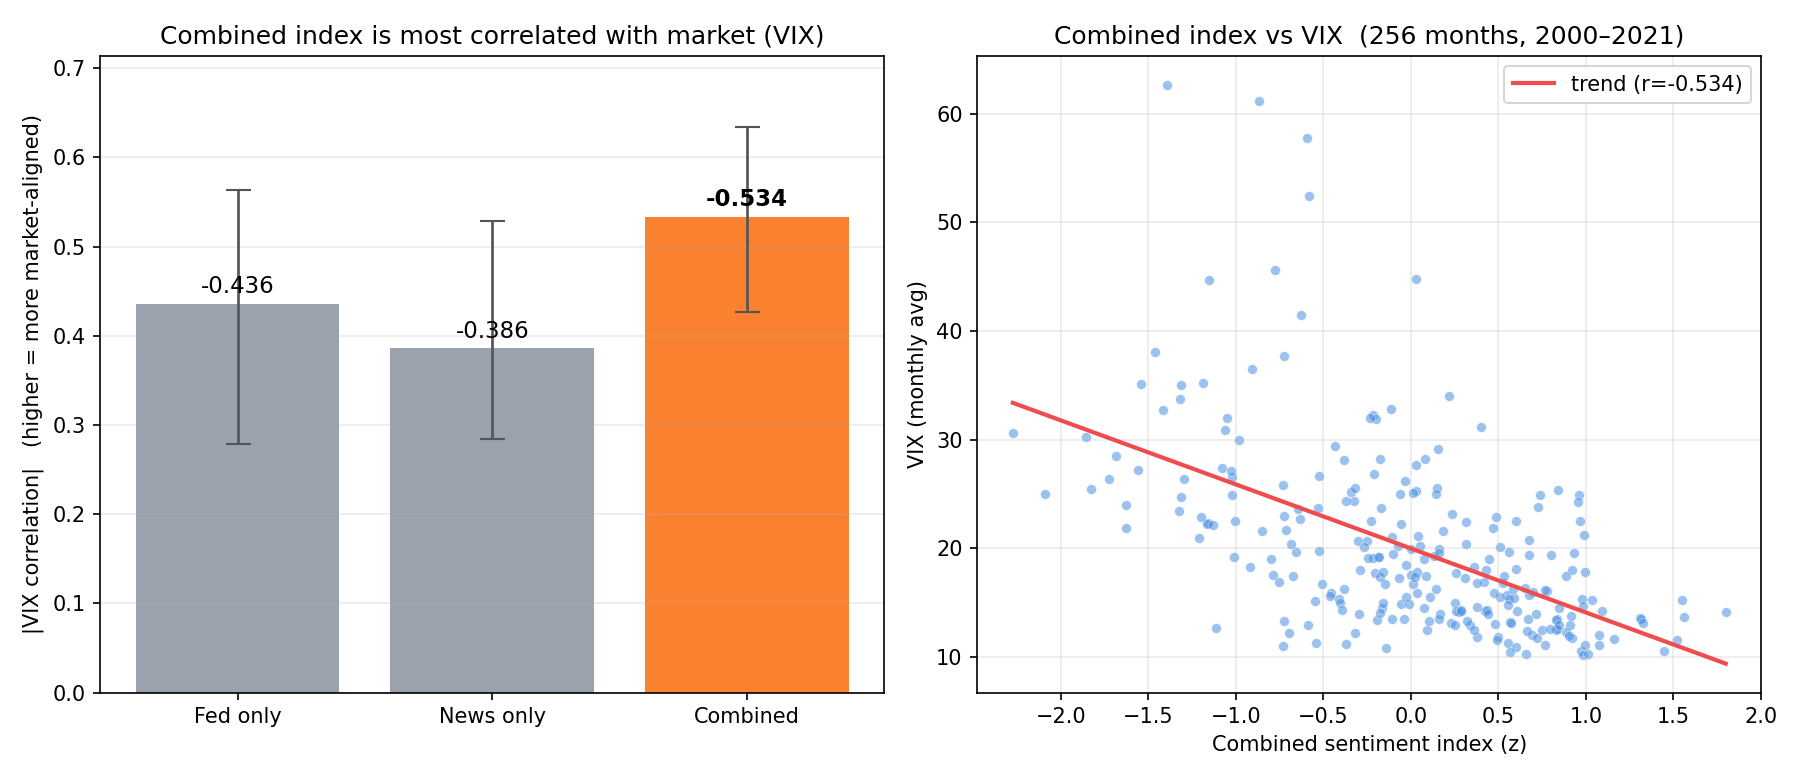
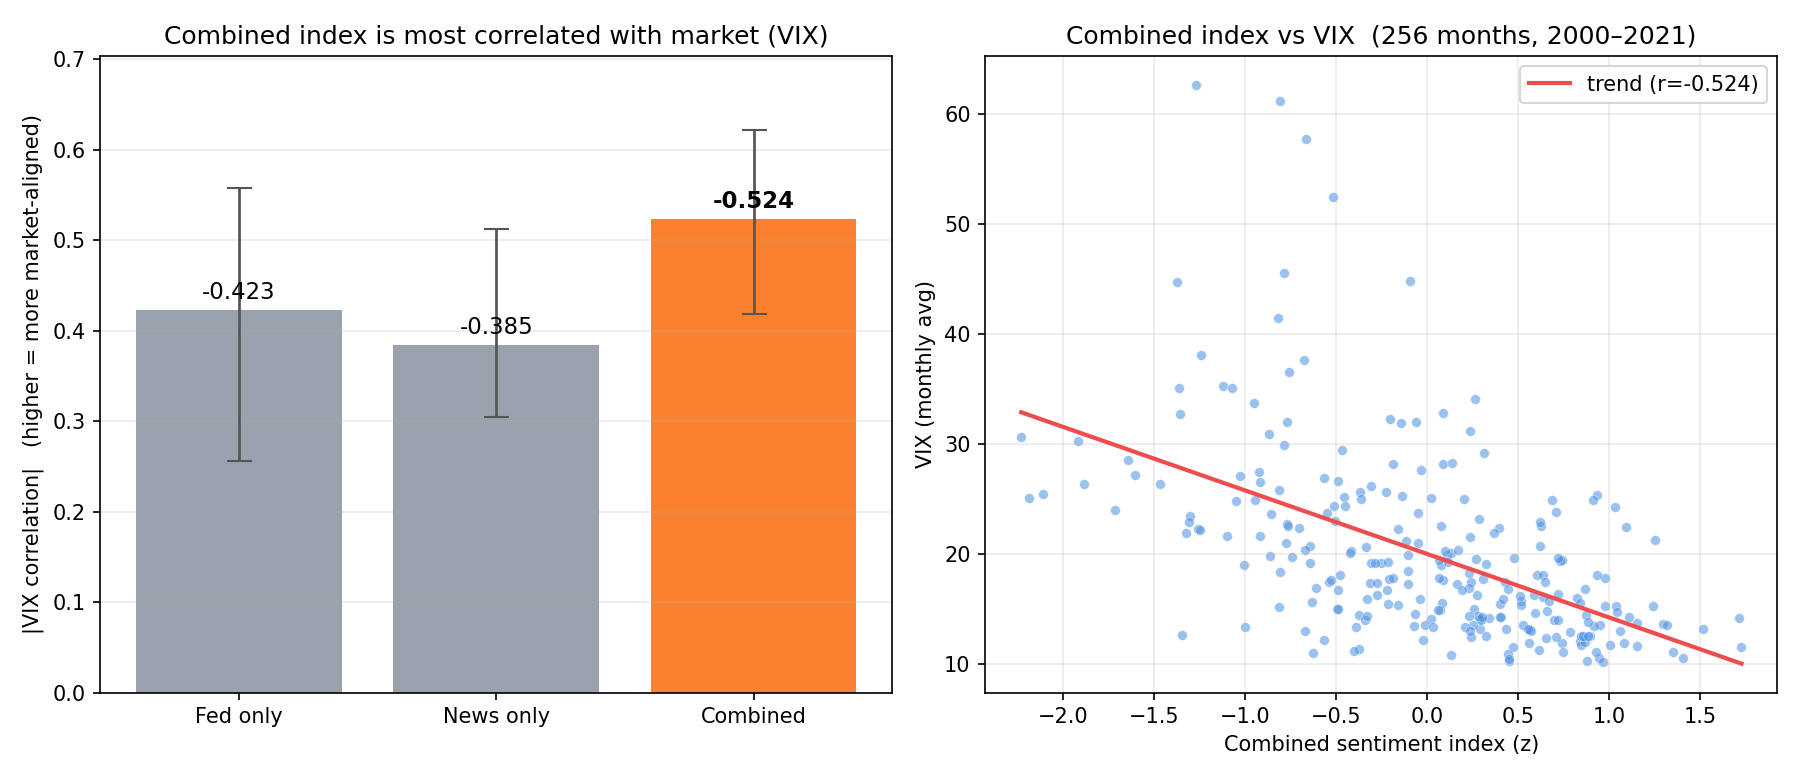
docs(validation): VIX 상관 인용을 T=1 수치로 일괄 정정 (-0.534 → -0.524)
8dc5879 에서 z-파라미터를 T=1 로 재생성하면서 검증 수치도 함께 바뀌었는데,
문서·코드 12곳에 T=3.1 시절 값이 남아 있었다. 하나만 고치면 인접 수치와
어긋나므로 §3·§3b 전체를 재계산해 함께 맞춘다.

                     T=3.1        T=1
  Fed 단독           -0.436   →  -0.423
  News 단독          -0.386   →  -0.385
  통합 50:50         -0.534   →  -0.524
  통합 Fed 70%       -0.519   →  -0.506
  통합 News 70%      -0.494   →  -0.488
  95% CI       [-0.634,-0.426] → [-0.621,-0.418]
  홀드아웃 2012/14/16  -0.479/-0.509/-0.528 → -0.499/-0.520/-0.538
  LOMO 범위    [-0.543,-0.526] → [-0.533,-0.515]
  축 표준편차        Fed .165/News .065 → Fed .275/News .092
결론은 불변이다 — 세 값 모두 0.013 이내로 움직였고 순서·부호가 그대로다.
정정한 곳에는 이전 값이 T=3.1 기준이었다는 주석을 함께 남겼다.

analysis/validation_series.json 재생성 — 사이트의 감성↔시장 겹쳐그리기 원본이다.
r 뿐 아니라 **256개월 전 구간의 값이 전부** T=3.1 시절 것이었다(2000-02 -0.644 →
-0.861 등). build_validation_series.py 로 다시 만들었다.

docs/figures/comparison/{index_vs_vix_comparison,robustness_summary}.png 재생성 —
그림 제목에 -0.534 가 하드코딩돼 있었다.

analysis/validate_weights.repro_check 의 기대값도 갱신했다. 허용오차 0.02 라
갱신 전에도 통과했지만, 기대값이 옛 엔진 기준이면 재현 확인의 의미가 없다.
갱신 후 fed/news/combined 세 값 모두 실측과 정확히 일치한다.

docs/superpowers/specs/2026-08-09-*.md 는 날짜가 박힌 설계 시점 기록이라
본문을 고치지 않고 머리에 주의 문구만 달았다. 그때 참조한 값이 무엇이었는지가
문서의 일부이므로 소급 수정하면 기록이 아니게 된다.

별건: export_dashboard 의 headline 척도 주의 주석을 현재 상태로 갱신했다
  (T=1 재생성으로 상당히 정상화됐으나 월별→일별 불일치는 남는다는 내용).

검증: 테스트 149개 통과. repro_check 3항목 일치. validate_robustness 재실행값과
      문서 수치 대조 완료.

diff --git a/analysis/export_dashboard.py b/analysis/export_dashboard.py
@@ -4,7 +4,7 @@ React/Lovable 등 웹 프론트는 파이썬을 못 돌리므로, DB·CSV의 분
 정적 JSON으로 변환한다. 프론트는 이 파일들만 fetch해서 렌더(계산 없음 — 환각 차단).
 
 산출 (기본 outputs/dashboard/):
-  meta.json           생성시각·기간·건수 + 검증 수치(-0.534, 홀드아웃, CI, LOMO, 괴리 2.4x, presser 87%)
+  meta.json           생성시각·기간·건수 + 검증 수치(-0.524, 홀드아웃, CI, LOMO, 괴리 2.4x, presser 87%)
   meetings.json       회의별 Fed 톤 (conf_weighted, confidence)
   alerts.json         회의별 신호 (등급·발동·톤·시장반응) — 검증된 signals 엔진 재사용
   news_daily.json     일별 News 지수 (+ 부트스트랩 CI, 기사수)
@@ -79,9 +79,14 @@ def export_daily_headline():
     읽으면서 이름만 '통합'이라 붙이고 있었다(2026-08 발견).
 
     ★척도 주의: headline 은 각 축을 z-표준화해 합친 **상대값**이라 0이 과거 평균이고,
-    뉴스 원값처럼 -1~+1 범위가 아니다. 게다가 현재 z 파라미터(headline_norm.json)가
-    월별 집계에서 나온 값이라 일별에 쓰면 크기가 약 4배 부풀려진다 — 부호와 상대 순서는
-    맞지만 절대 크기는 아직 신뢰할 수 없다. 정상 수집이 쌓인 뒤 일별 분포로 재추정할 것.
+    뉴스 원값처럼 -1~+1 범위가 아니다. 2026-09 에 z 파라미터를 T=1 기준으로
+    재생성해(T=3.1 시절 값이 남아 있었다) 크기가 상당히 정상화됐지만, 아직
+    **월별** 분포에서 구한 값을 일별에 쓰고 있어 여전히 부풀려진다.
+    모집단·집계 단위까지 맞추는 안은 검토 중이다 — docs/headline_norm_issue.md.
+
+    ★news_z: 결합에 실제로 들어간 뉴스 z 값. fed 는 이미 z 척도다.
+    둘을 함께 내보내야 화면에서 index = 0.5·fed + 0.5·news_z 가 검산된다
+    (원값 news 만 보여주다 "계산이 안 맞는다"는 지적을 받았다, 2026-09-05).
     """
     return [{"date": r["date"], "index": _f(r["headline"]),
              "fed": _f(r["fed_carry"]), "news": _f(r["news"]),
@@ -248,7 +253,7 @@ def main():
     outdir.mkdir(parents=True, exist_ok=True)
     con = sqlite3.connect(DB)
 
-    vs = ROOT / "analysis" / "validation_series.json"    # 감성↔시장 월별(-0.534 원본, 커밋본)
+    vs = ROOT / "analysis" / "validation_series.json"    # 감성↔시장 월별(-0.524 원본, 커밋본)
     files = {
         "sentiment_vs_market.json": json.loads(vs.read_text(encoding="utf-8")) if vs.exists() else {},
         "meetings.json": export_meetings(con),

diff --git a/analysis/collect_macro.py b/analysis/collect_macro.py
@@ -3,7 +3,7 @@
 설계: `docs/superpowers/specs/2026-08-09-vix-replacement-indicators-design.md`
 
 지도교수 피드백으로 VIX 사용이 보류되면서, headline.py 의 50:50 결합을 뒷받침하던
-유일한 근거(VIX 상관 -0.534)가 비었다. 그 자리를 대신할 경제지표 패널을 모은다.
+유일한 근거(VIX 상관 -0.524)가 비었다. 그 자리를 대신할 경제지표 패널을 모은다.
 
 지표 선정 기준은 **연준의 목표와 도구**다:
   목표 — 물가안정(T5YIE·MICH) · 고용(UNRATE) · 경제성장(INDPRO)
@@ -62,7 +62,7 @@ SERIES = (
     Macro("WALCL",  "연준 총자산",            "도구·QE",   "logdiff", False),
     Macro("NFCI",   "시카고연은 금융상황",    "대조군",    "diff",    True),
     # VIX 는 지도교수 피드백으로 '보류'지만 패널에 남긴다 — 삭제가 아니라 참조용이다.
-    # 기존 검증(-0.534)이 이 지표 위에 서 있어서, 나란히 놓아야 새 지표 결과를
+    # 기존 검증(-0.524)이 이 지표 위에 서 있어서, 나란히 놓아야 새 지표 결과를
     # 기존 결과와 연결해 읽을 수 있다.
     # ★단 독립 증거가 아니다: NFCI↔VIX 상관 +0.738 이고, VIX 로 설명되지 않는
     #   NFCI 잔차와 통합지수의 상관은 -0.015(사실상 0)다. 즉 감성지수가 NFCI 와

diff --git a/analysis/validate_weights.py b/analysis/validate_weights.py
@@ -137,7 +137,7 @@ def run(boot=True):
 
 
 def repro_check():
-    """기존 VIX 수치(-0.436 / -0.386 / -0.534) 재현 — 파이프라인 건전성 확인.
+    """기존 VIX 수치(-0.423 / -0.385 / -0.524) 재현 — 파이프라인 건전성 확인.
 
     새 지표에서 이상한 값이 나왔을 때 지표 탓인지 코드 탓인지 가르는 유일한 장치다.
     """
@@ -146,7 +146,8 @@ def repro_check():
     vix = vix_monthly(axes.index.min(), axes.index.max() + pd.offsets.MonthEnd(1))
     df = pd.concat([axes, vix.rename("y")], axis=1).dropna()
     got = {k: round(float(df[k].corr(df.y)), 3) for k in ("fed", "news", "combined")}
-    want = {"fed": -0.436, "news": -0.386, "combined": -0.534}
+    # T=1 엔진 기준(2026-09 갱신). T=3.1 시절 값은 -0.436/-0.386/-0.534 였다.
+    want = {"fed": -0.423, "news": -0.385, "combined": -0.524}
     print(f"\n[재현 확인] VIX 상관 ({len(df)}개월)")
     for k in want:
         mark = "OK" if abs(got[k] - want[k]) <= 0.02 else "불일치"

diff --git a/analysis/headline.py b/analysis/headline.py
@@ -1,12 +1,13 @@
 """통합(headline) 지수 — News 축 + Fed 축 결합.
 
 검증(docs/news_fed_index.md §3): 두 축을 표준화(z-score) 후 50:50 결합이
-VIX 상관 -0.534 로 각 축 단독(Fed -0.436 / News -0.386)보다 뚜렷이 나음
+VIX 상관 -0.524 로 각 축 단독(Fed -0.423 / News -0.385)보다 뚜렷이 나음
 (2000-2021 256개월; 성명문 220 + WSJ 38,869 기사로 재현).
 
 두 축은 conf_weighted(둘 다 score=p_pos-p_neg 기반)이지만 분산이 달라
 (Fed σ≈0.165 ≫ News σ≈0.065) raw 로 섞으면 Fed 가 지배한다. 그래서 각 축을
-평균·표준편차로 z 표준화한 뒤 결합해 검증본(-0.534)을 재현한다.
+평균·표준편차로 z 표준화한 뒤 결합해 검증본(-0.524)을 재현한다.
+※ 수치는 T=1 엔진 기준(2026-09 갱신). 이전 문서의 -0.534 는 T=3.1 시절 값이다.
 
 z 파라미터(각 축 mean/std) 우선순위:
   1) combine(...) 에 명시한 fed_stats·news_stats  (예: 런타임 zstats() 결과)

diff --git a/analysis/robustness_figure.py b/analysis/robustness_figure.py
@@ -1,4 +1,4 @@
-"""강건성 종합 그림 — 통합↔VIX(-0.534)의 신뢰성을 3각도로 한눈에 (포스터용).
+"""강건성 종합 그림 — 통합↔VIX(-0.524)의 신뢰성을 3각도로 한눈에 (포스터용).
 
   · Holdout(시간분할): 안 본 기간에도 유지 → 과최적 아님
   · Bootstrap 95% CI: 0과 구분 → 우연 아님
@@ -77,7 +77,7 @@ def main():
     axl.legend(loc="upper right", fontsize=9)
     axl.grid(axis="y", alpha=0.25)
 
-    fig.suptitle("Robustness of Combined index ↔ VIX  (−0.534, 256 months)", fontsize=13, y=1.02)
+    fig.suptitle("Robustness of Combined index ↔ VIX  (−0.524, 256 months)", fontsize=13, y=1.02)
     fig.tight_layout()
     out = FIGDIR / "robustness_summary.png"
     fig.savefig(out, dpi=150, bbox_inches="tight")

diff --git a/agents/graph.py b/agents/graph.py
@@ -283,7 +283,7 @@ def strategy_node(state: State) -> State:
     if not state["index"]:
         state["log"].append("[strategy] 인덱스 없음 → 건너뜀")
         return state
-    # 신호 톤 = 결합(News+Fed) 지수 — 검증된 두 축 이점(-0.534)을 신호에 반영.
+    # 신호 톤 = 결합(News+Fed) 지수 — 검증된 두 축 이점(-0.524)을 신호에 반영.
     tone = (state.get("headline") or {}).get("headline")
     if tone is None:                                  # 결합 없으면 Fed 단독 z 로 폴백
         fed, fed_stats = _fed_value_and_stats(state["index"])

diff --git a/analysis/build_validation_series.py b/analysis/build_validation_series.py
@@ -1,6 +1,6 @@
 """검증 시리즈 생성 — 통합(z) vs VIX 월별 256개월 → analysis/validation_series.json (커밋).
 
--0.534 상관의 '원본 시계열'을 웹 대시보드가 겹쳐 그릴 수 있게 저장한다.
+-0.524 상관의 '원본 시계열'을 웹 대시보드가 겹쳐 그릴 수 있게 저장한다.
 validate_robustness.aligned()/combined() 재사용(동일 데이터·동일 z) — 수치 불일치 방지.
 yfinance 네트워크가 필요하므로 export_dashboard 와 분리(한 번 생성해 커밋, export는 복사만).
 

diff --git a/analysis/comparison_figure.py b/analysis/comparison_figure.py
@@ -1,6 +1,6 @@
 """Fed vs News vs 통합 — VIX 상관 비교 그림 (왜 두 축을 합치나).
 
-각 지수(Fed단독·News단독·통합)의 VIX 상관을 비교 → **통합이 가장 강함**(≈-0.534).
+각 지수(Fed단독·News단독·통합)의 VIX 상관을 비교 → **통합이 가장 강함**(≈-0.524).
 왼쪽: 상관 크기(|r|) 막대 + 블록 부트스트랩 95% CI. 오른쪽: 통합 vs VIX 산점도.
 데이터·CI는 검증된 코드 재사용(validate_robustness).
 

diff --git a/analysis/validate_robustness.py b/analysis/validate_robustness.py
@@ -1,6 +1,6 @@
 """통합지수 견고함 검증 — 시간분할 홀드아웃 + 블록 부트스트랩 CI.
 
-docs/news_fed_index.md §3 의 통합↔VIX 상관(-0.534)이
+docs/news_fed_index.md §3 의 통합↔VIX 상관(-0.524)이
   (1) 과최적(in-sample)이 아니라 안 본 기간에도 일반화되고 [홀드아웃]
   (2) 우연이 아니라 0 과 구분된다 [부트스트랩 95% CI]
 를 정량으로 보인다.

diff --git a/docs/news_fed_index.md b/docs/news_fed_index.md
@@ -49,37 +49,43 @@
 
 | | VIX 상관 |
 |---|---|
-| Fed 단독 | -0.436 |
-| News 단독 | -0.386 |
-| **통합 (균등 50:50)** | **-0.534** |
-| 통합 (Fed 70%) | -0.519 |
-| 통합 (News 70%) | -0.494 |
+| Fed 단독 | -0.423 |
+| News 단독 | -0.385 |
+| **통합 (균등 50:50)** | **-0.524** |
+| 통합 (Fed 70%) | -0.506 |
+| 통합 (News 70%) | -0.488 |
 
-→ **통합(균등)이 각 축 단독보다 시장과 뚜렷하게 더 정합** (-0.534 vs -0.436/-0.386).
-표준화(z)가 두 축의 분산차(Fed σ0.165 ≫ News σ0.065)를 맞춰 News가 묻히지 않게 함 → 재현치가 이전(-0.52)보다 소폭 강화.
+→ **통합(균등)이 각 축 단독보다 시장과 뚜렷하게 더 정합** (-0.524 vs -0.423/-0.385).
+표준화(z)가 두 축의 분산차(Fed σ0.275 ≫ News σ0.092)를 맞춰 News가 묻히지 않게 함.
+
+> **수치 갱신(2026-09-06)**: 위 값은 **T=1 엔진** 기준이다. 2026-08-03(`8240208`)에
+> 지도교수 피드백으로 온도보정(T=3.1)을 제거했는데, 문서에는 그 이전 값
+> (-0.436 / -0.386 / **-0.534**)이 남아 있었다. 결론은 바뀌지 않는다 —
+> 세 값 모두 0.013 이내로 움직였고 순서·부호가 그대로다.
+> 경위: `docs/headline_norm_issue.md`, 대조표: `docs/weight_validation.md` §4.
 독립적 두 축을 합쳐 노이즈는 상쇄되고 공통 신호가 강화됨. "News & Fed" 두 축 설계가 정량으로 정당화.
 
 **그림**: `docs/figures/comparison/index_vs_vix_comparison.png` — 왼쪽 막대(Fed/News/통합 |상관| + 부트스트랩 CI), 오른쪽 산점도(통합 vs VIX, 감성↓→VIX↑). 재현: `analysis/comparison_figure.py`.
 
 ## 3b. 견고함 — 과최적·우연·단일사건 아님 (홀드아웃 + 부트스트랩 + LOMO)
 
-통합 -0.534 가 (a) 과최적(in-sample)이 아니라 안 본 기간에도 일반화되고, (b) 우연이 아니라 0과 구분됨을 정량 검증. 코드: `analysis/validate_robustness.py`.
+통합 -0.524 가 (a) 과최적(in-sample)이 아니라 안 본 기간에도 일반화되고, (b) 우연이 아니라 0과 구분됨을 정량 검증. 코드: `analysis/validate_robustness.py`.
 
 **시간분할 홀드아웃** — 앞 기간으로 z-파라미터를 고정(fit)하고, 안 본 뒤 기간에서 상관을 재측정:
 
 | 분할 | 학습 (in-sample) | 검정 (안 본 기간, 홀드아웃) |
 |---|---|---|
-| 2012 | 143개월  -0.455 | 113개월  **-0.479** |
-| 2014 | 167개월  -0.487 | 89개월  **-0.509** |
-| 2016 | 191개월  -0.518 | 65개월  **-0.528** |
+| 2012 | 143개월  -0.437 | 113개월  **-0.499** |
+| 2014 | 167개월  -0.472 | 89개월  **-0.520** |
+| 2016 | 191개월  -0.501 | 65개월  **-0.538** |
 
-→ **분할점 무관하게 홀드아웃 -0.48~-0.53**, in-sample 대비 저하 없음(오히려 소폭 강함) → **과최적 아님, 일반화됨**.
+→ **분할점 무관하게 홀드아웃 -0.50~-0.54**, in-sample 대비 저하 없음(오히려 소폭 강함) → **과최적 아님, 일반화됨**.
 
 **블록 부트스트랩 95% CI** (월 블록=12, 3000회; 시계열 자기상관 보존):
-- 통합↔VIX **-0.534, 95% CI [-0.634, -0.426]** → **0 미포함 = 통계적으로 유의**(우연 아님).
+- 통합↔VIX **-0.524, 95% CI [-0.621, -0.418]** → **0 미포함 = 통계적으로 유의**(우연 아님).
 
 **LOMO(leave-one-month-out)** — 256개월을 하나씩 빼고 상관을 재계산:
-- 전부 **[-0.543, -0.526]** 안 (가장 영향 큰 2009-03 금융위기 달을 빼도 -0.543) → **어떤 단일 사건(2008·2020)도 결과를 좌우하지 않음**.
+- 전부 **[-0.533, -0.515]** 안 (가장 영향 큰 2005-09 달을 빼도 -0.533) → **어떤 단일 사건(2008·2020)도 결과를 좌우하지 않음**.
 
 **그림(3검사 종합)**: `docs/figures/comparison/robustness_summary.png` — 왼쪽(Full+부트CI, 홀드아웃 out-of-sample), 오른쪽(LOMO 분포). 재현: `analysis/robustness_figure.py`.
 

diff --git a/docs/superpowers/specs/2026-08-09-vix-replacement-indicators-design.md b/docs/superpowers/specs/2026-08-09-vix-replacement-indicators-design.md
@@ -3,6 +3,12 @@
 > 작성일: 2026-08-09 · 상태: 설계 확정 (구현 전)
 > 지도교수 피드백 "VIX 대신 다른 경제지표 사용 고려" 대응
 
+> ⚠ **수치 주의(2026-09-06 추가)**: 이 문서의 VIX 상관
+> (-0.436 / -0.386 / -0.534)은 작성 시점에 참조한 값으로, **T=3.1**
+> 엔진 기준이다. 현재(T=1) 값은 -0.423 / -0.385 / **-0.524** 다.
+> 설계 시점 기록이므로 본문은 그대로 둔다 — 최신 수치는
+> `docs/news_fed_index.md` §3, 경위는 `docs/headline_norm_issue.md` 참조.
+
 ---
 
 ## 1. 배경 — 왜 필요한가
